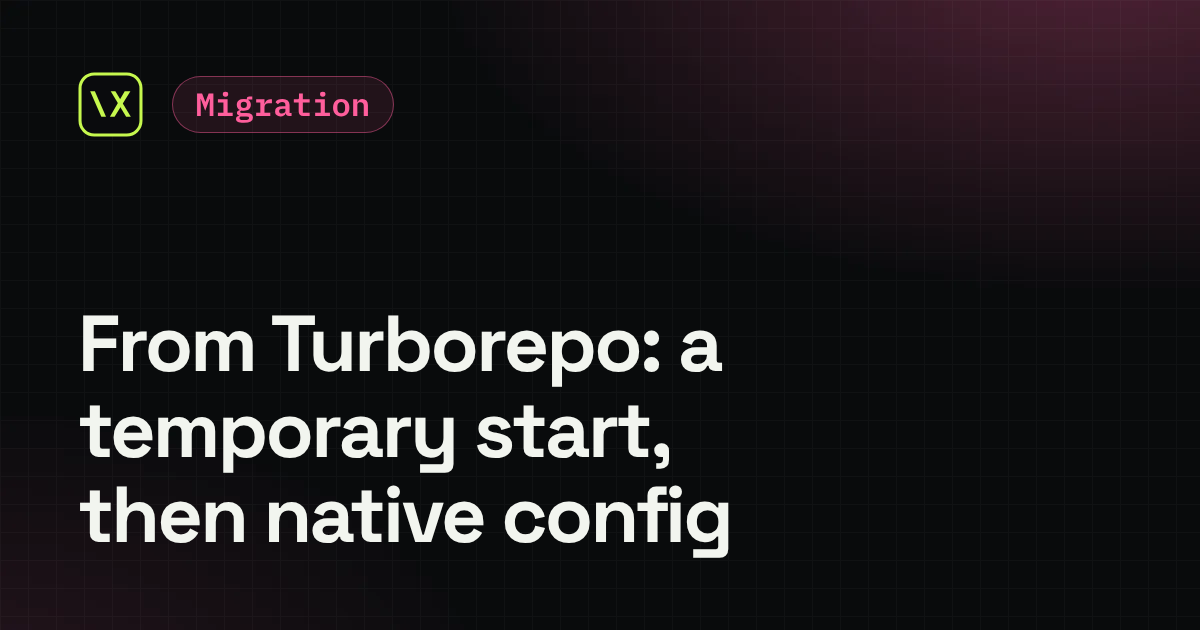
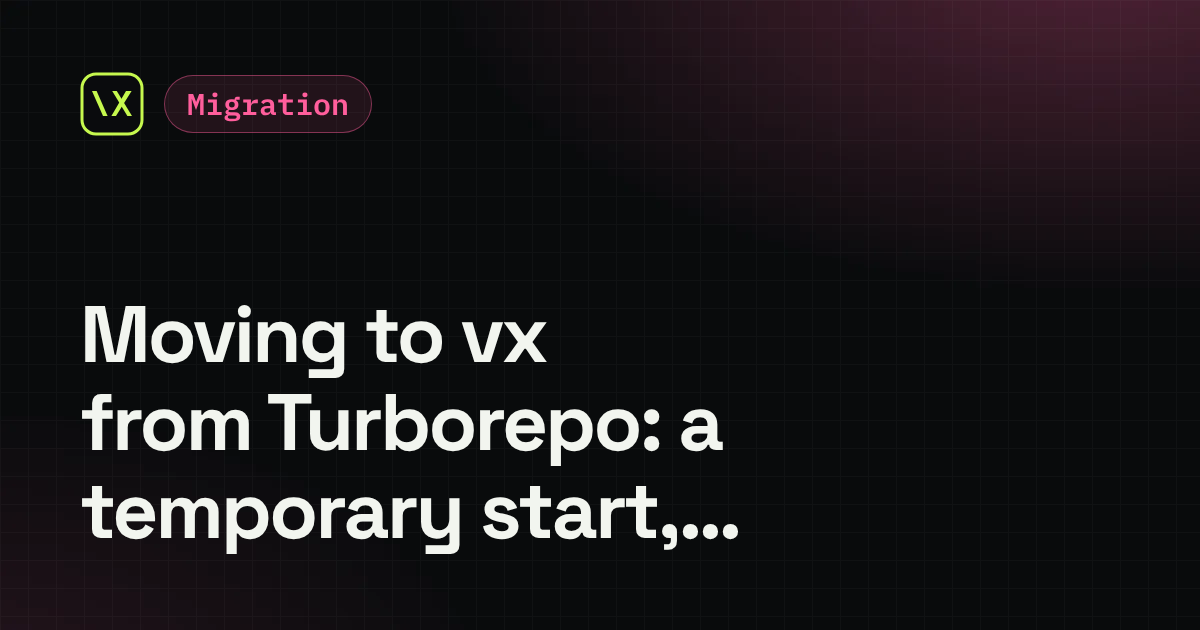
docs(vx-docs): add the trademark line and put vx first in titles
Legal cleared naming Turborepo and Nx on the site with a footer line on
every page and vx, not their names, leading each title.

Claude-Session: https://claude.ai/code/session_01LiMy9hqQ6VxxofZRiXtWRk

Changed region(s): [[0.0617, 0.4825, 0.6167, 0.9048], [0.0617, 0.1206, 0.3392, 0.2413]]

diff --git a/packages/vx-docs/src/nav/sections.ts b/packages/vx-docs/src/nav/sections.ts
@@ -88,8 +88,8 @@ const SIDEBAR_GROUPS: Record<'Docs' | 'Reference', SidebarItem[]> = {
         { label: 'vx vs Turborepo', link: '/compare/turborepo/' },
         { label: 'vx vs Nx', link: '/compare/nx/' },
         { label: 'vx vs Turborepo vs Nx', link: '/comparison/' },
-        { label: 'Turbo / Nx parity map', link: '/parity/' },
-        { label: 'Turbo / Nx config support', link: '/compare/turbo-nx-support/' },
+        { label: 'Parity map for Turbo and Nx', link: '/parity/' },
+        { label: 'Config support for Turbo and Nx', link: '/compare/turbo-nx-support/' },
         { label: 'Upstream bug ledger', link: '/upstream-ledger/' },
       ],
     },

diff --git a/packages/vx-docs/src/features/more.ts b/packages/vx-docs/src/features/more.ts
@@ -1705,7 +1705,7 @@ export const MORE: readonly Feature[] = [
       href: 'guides/migrate/',
     },
     deepDive: {
-      label: 'From Nx: keep the graph, drop the platform',
+      label: 'Moving to vx from Nx: keep the graph, drop the platform',
       href: 'blog/from-nx/',
     },
   },
@@ -1777,7 +1777,7 @@ export const MORE: readonly Feature[] = [
       href: 'guides/migrate/',
     },
     deepDive: {
-      label: 'From Nx: keep the graph, drop the platform',
+      label: 'Moving to vx from Nx: keep the graph, drop the platform',
       href: 'blog/from-nx/',
     },
   },

diff --git a/packages/vx/tests/turbo-nx-support.test.ts b/packages/vx/tests/turbo-nx-support.test.ts
@@ -80,7 +80,7 @@ function render(rows: readonly Row[]): string {
     .map((m) => `\`${m[1]}\` ${m[2]}`)
     .filter((v, i, all) => all.indexOf(v) === i)
   const out = [
-    '# Turbo and Nx config support',
+    '# Config support for Turbo and Nx',
     '',
     '<!-- Generated by tests/turbo-nx-support.test.ts from tests/contract/turbo-nx-support.json; edit the table, not this page. -->',
     '',

diff --git a/packages/vx-docs/src/features/features.ts b/packages/vx-docs/src/features/features.ts
@@ -697,7 +697,7 @@ export default defineProject({
     image: 'migrate.png',
     imageAlt: 'vx-migrate writing a vx.config.ts per package.',
     docs: { label: 'Migrate', href: 'guides/migrate/' },
-    deepDive: { label: 'From Turborepo', href: 'blog/from-turborepo/' },
+    deepDive: { label: 'Moving to vx from Turborepo', href: 'blog/from-turborepo/' },
   },
   {
     slug: 'turbo-nx-flags',

diff --git a/packages/vx-docs/src/styles/landing.css b/packages/vx-docs/src/styles/landing.css
@@ -325,6 +325,12 @@ body:has(.vx-landing) {
 .foot-col .links a:hover {
   color: var(--text-hi);
 }
+.foot-legal {
+  display: block;
+  margin: 16px auto 0;
+  font: 12px/1.5 var(--font-body);
+  color: var(--text-faint);
+}
 .foot-bottom {
   margin: 40px auto 0;
   padding-top: 24px;

diff --git a/packages/vx/docs/parity.md b/packages/vx/docs/parity.md
@@ -1,4 +1,4 @@
-# Turbo / Nx parity map
+# Parity map for Turbo and Nx users
 
 What a Turborepo or Nx user relies on, the vx spelling of it, and the
 test that proves it. Two end-to-end suites run the real CLI on one

diff --git a/packages/vx/docs/turbo-nx-support.md b/packages/vx/docs/turbo-nx-support.md
@@ -1,4 +1,4 @@
-# Turbo and Nx config support
+# Config support for Turbo and Nx
 
 <!-- Generated by tests/turbo-nx-support.test.ts from tests/contract/turbo-nx-support.json; edit the table, not this page. -->
 

diff --git a/packages/vx-docs/src/content/docs/blog/from-turborepo.md b/packages/vx-docs/src/content/docs/blog/from-turborepo.md
@@ -1,5 +1,5 @@
 ---
-title: 'From Turborepo: a temporary start, then native config'
+title: 'Moving to vx from Turborepo: a temporary start, then native config'
 date: 2026-09-10T23:32:00Z
 authors:
   - vzn

diff --git a/packages/vx-docs/src/content/docs/blog/from-nx.md b/packages/vx-docs/src/content/docs/blog/from-nx.md
@@ -1,5 +1,5 @@
 ---
-title: 'From Nx: keep the graph, drop the platform'
+title: 'Moving to vx from Nx: keep the graph, drop the platform'
 date: 2026-09-10T23:31:00Z
 authors:
   - vzn
